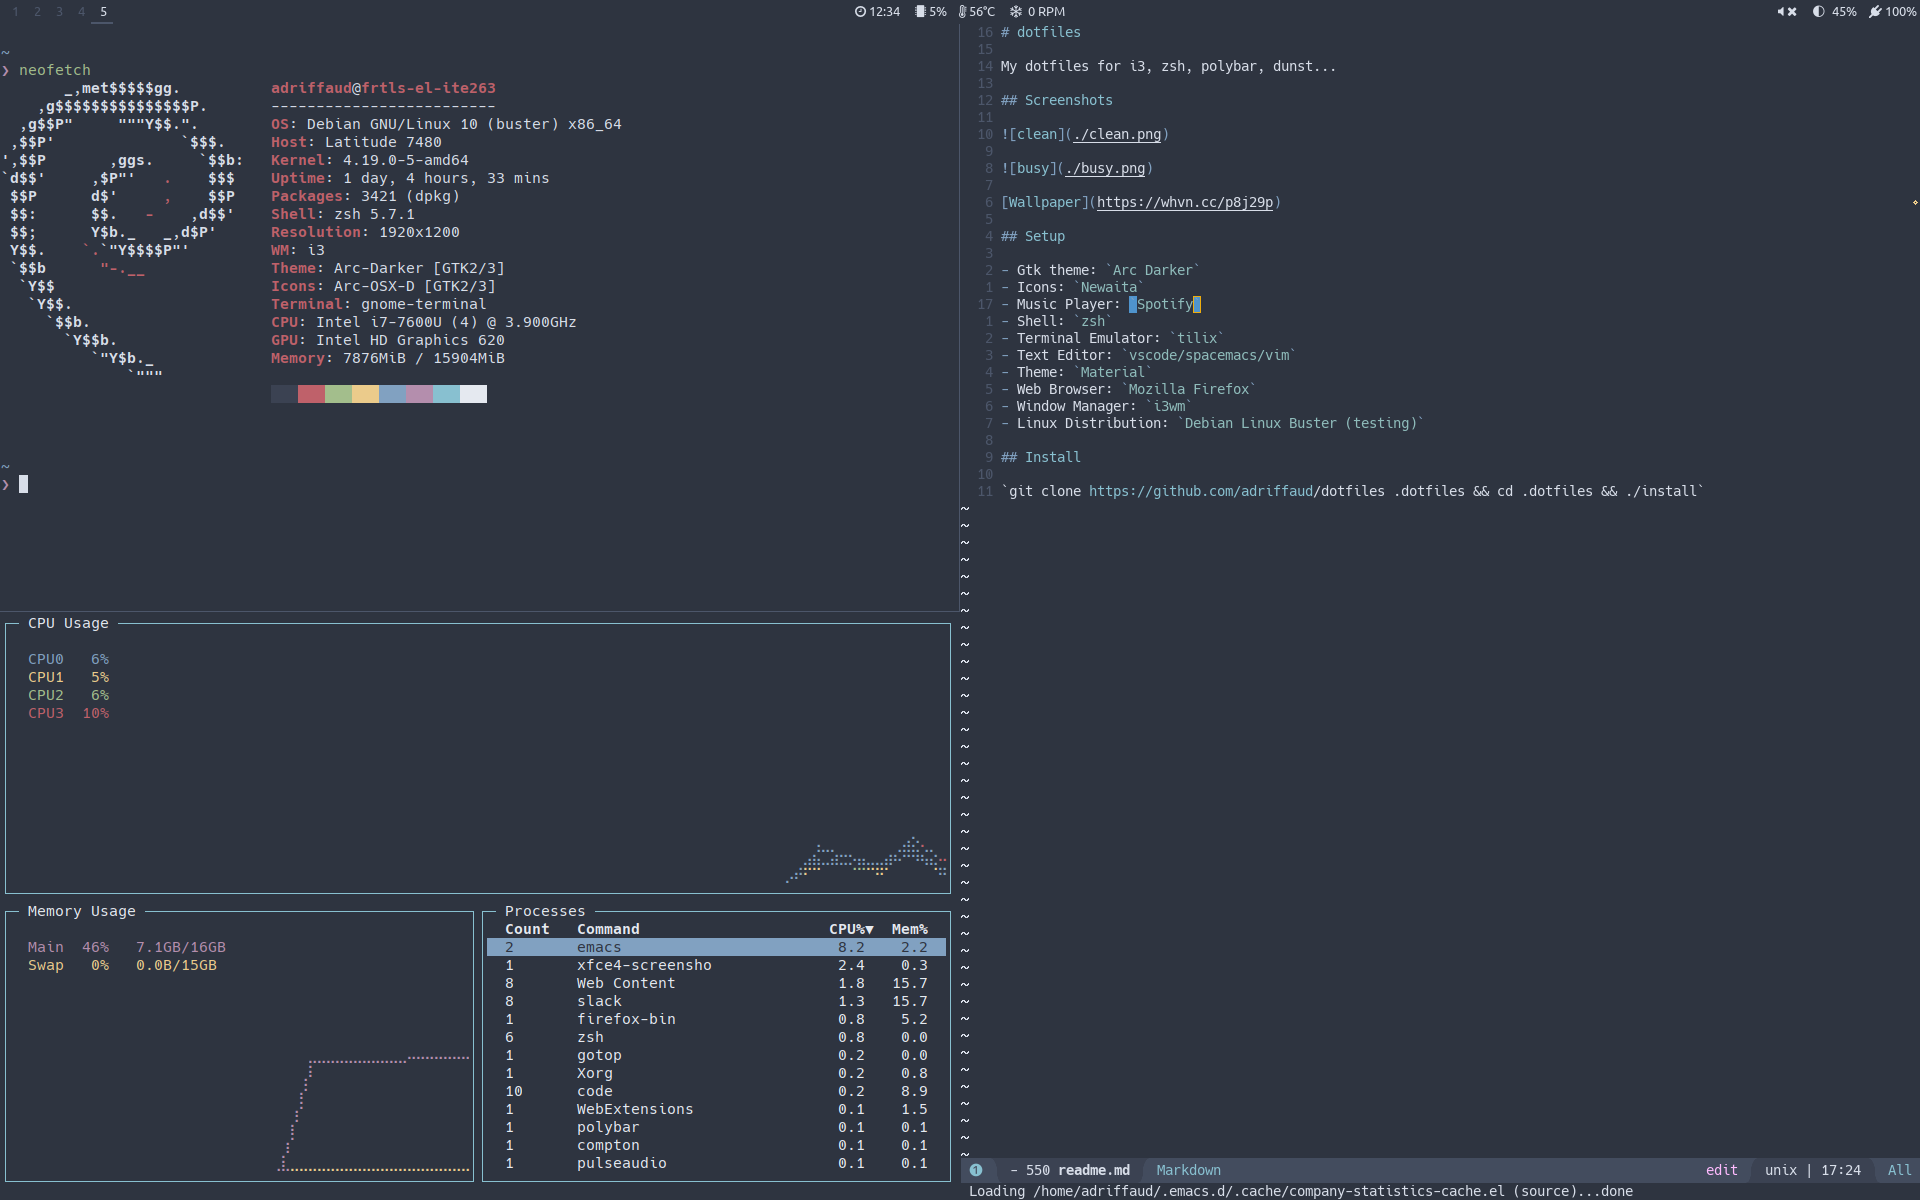
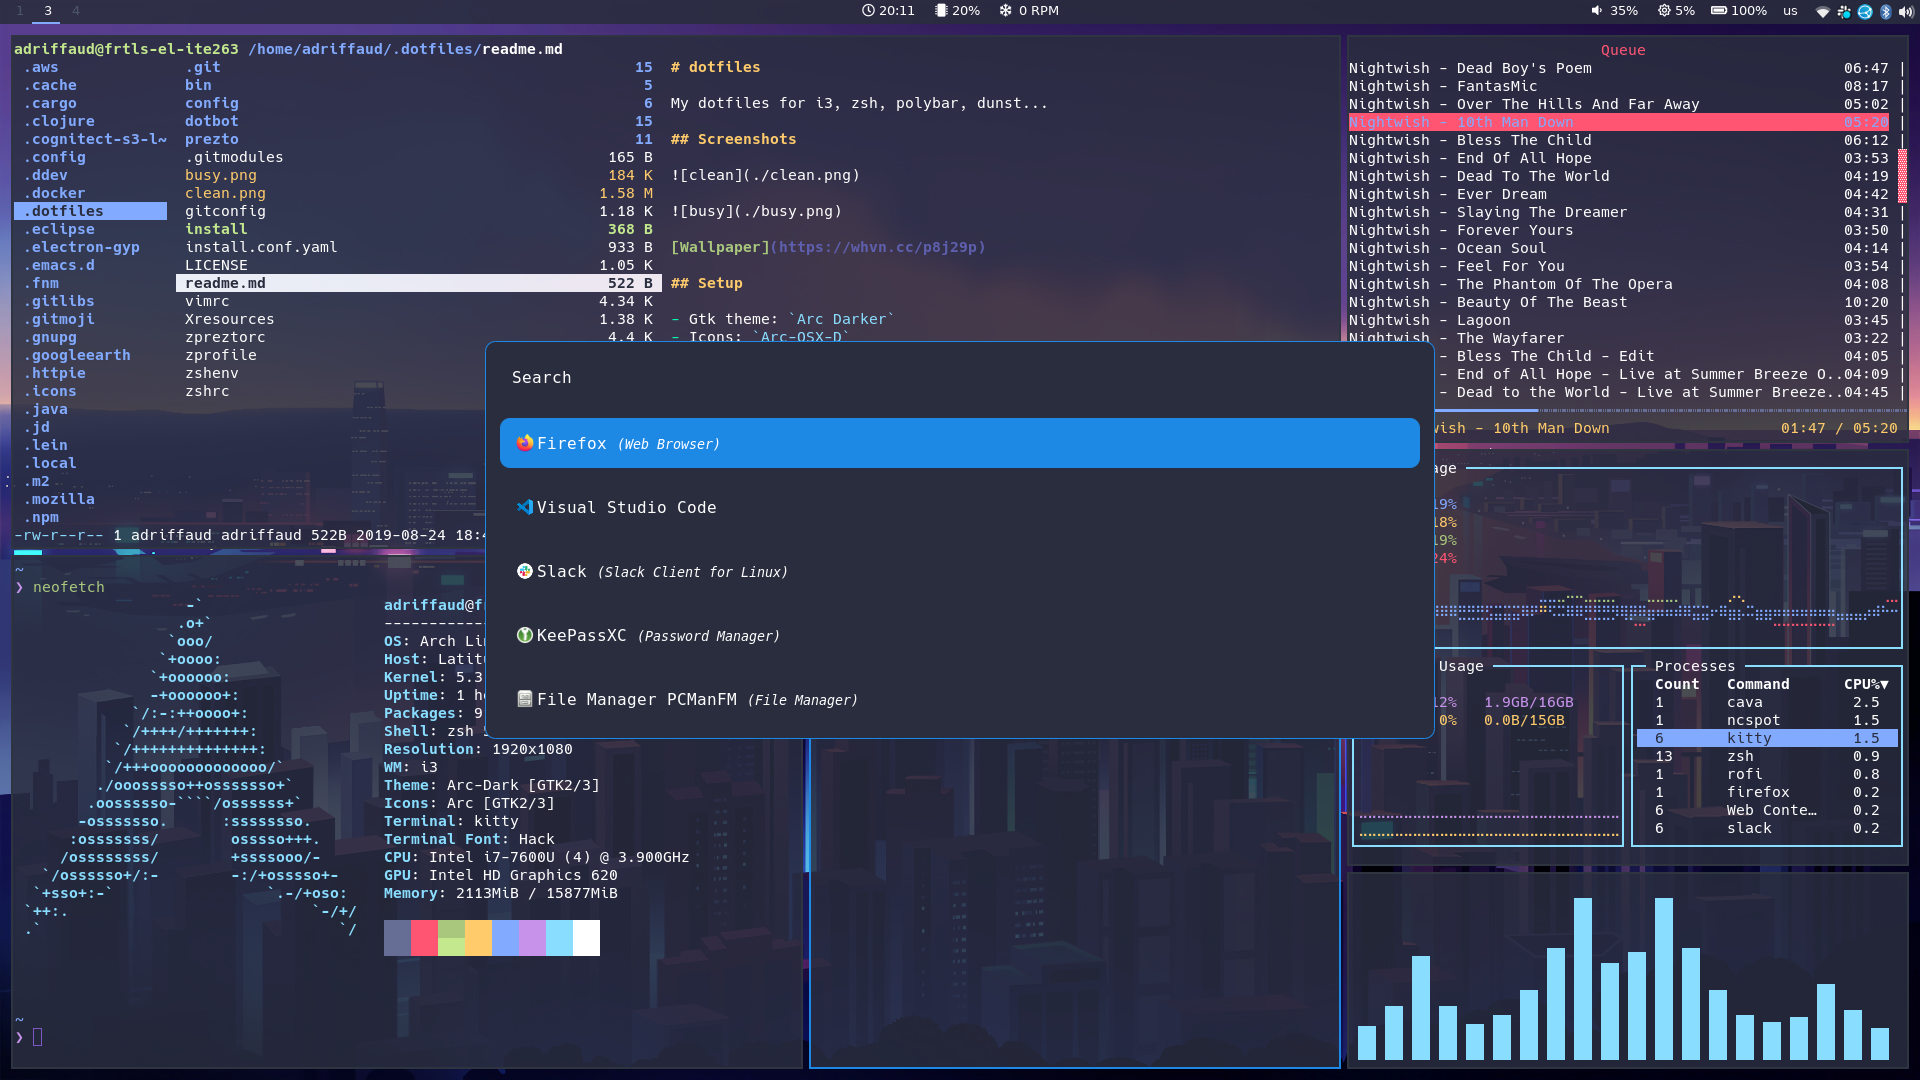
Update screenshots and readme

diff --git a/readme.md b/readme.md
@@ -8,19 +8,19 @@ My dotfiles for i3, zsh, polybar, dunst...
 
 ![busy](./busy.png)
 
-[Wallpaper](https://whvn.cc/p8j29p)
+[Wallpaper](https://whvn.cc/md27xm)
 
 ## Setup
 
-- Gtk theme: `Arc Darker`
-- Icons: `Arc-OSX-D`
+- Gtk theme: `Arc Dark`
+- Icons: `Arc`
 - Shell: `zsh`
-- Terminal Emulator: `tilix`
-- Text Editor: `vscode/spacemacs/vim`
-- Theme: `Nord`
+- Terminal Emulator: `kitty`
+- Text Editor: `vscode/vim`
+- Theme: `Palenight`
 - Web Browser: `Mozilla Firefox`
-- Window Manager: `i3wm`
-- Linux Distribution: `Debian Linux Buster (testing)`
+- Window Manager: `i3-gaps`
+- Linux Distribution: `Arch Linux`
 
 ## Install
 
